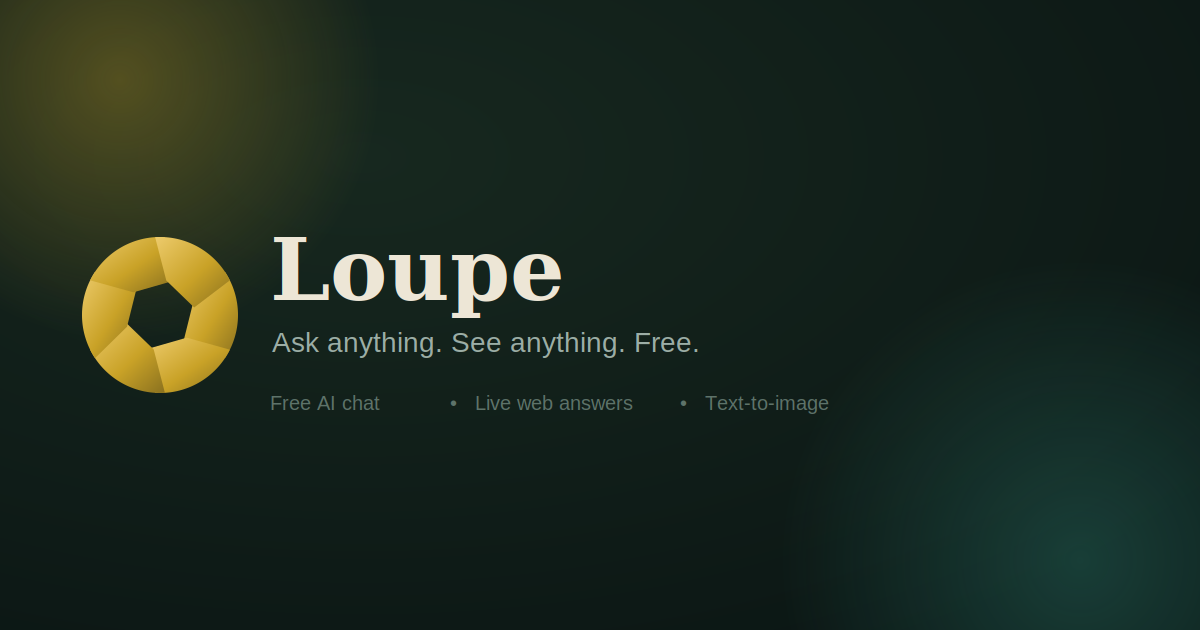
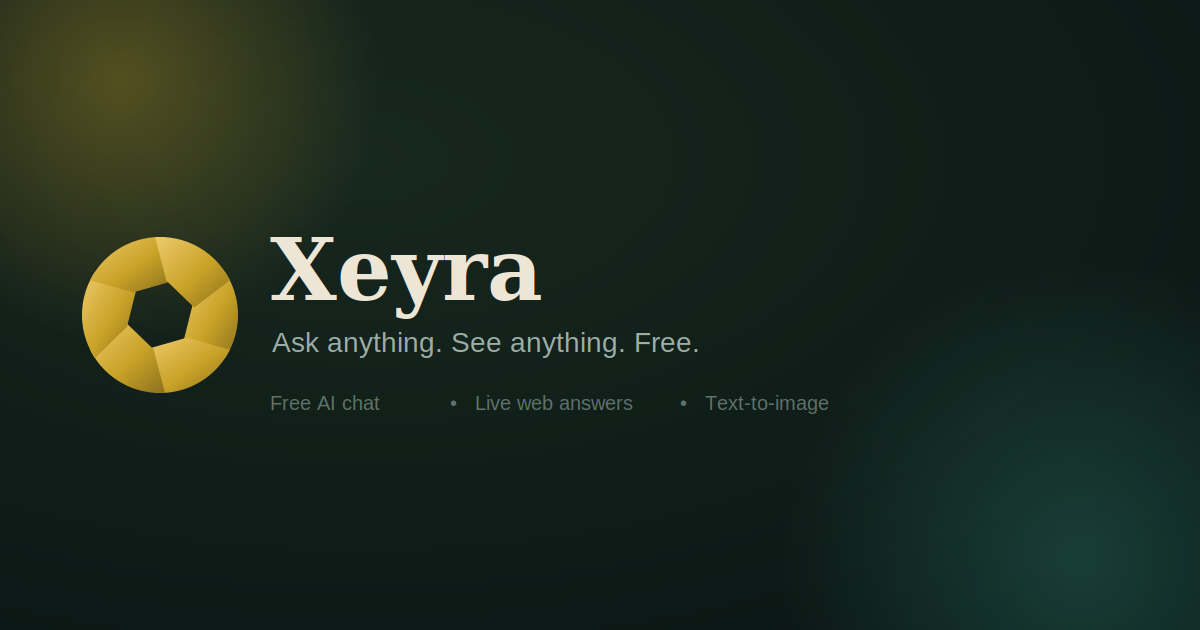
Add files via upload

Changed region(s): [[0.2158, 0.3619, 0.4933, 0.5127]]

diff --git a/index.html b/index.html
@@ -3,8 +3,8 @@
 <head>
 <meta charset="UTF-8">
 <meta name="viewport" content="width=device-width, initial-scale=1.0">
-<title>Loupe — Ask anything. See anything.</title>
-<meta name="description" content="Loupe is a free AI assistant — chat, get live current-events answers, and generate images. No sign-up required to start.">
+<title>Xeyra — Ask anything. See anything.</title>
+<meta name="description" content="Xeyra is a free AI assistant — chat, get live current-events answers, and generate images. No sign-up required to start.">
 <meta name="theme-color" content="#0B1614">
 
 <!-- Favicons (place these files next to index.html on your server — see BRAND_ASSETS.md) -->
@@ -17,16 +17,16 @@
 <link rel="manifest" href="/manifest.json">
 <meta name="apple-mobile-web-app-capable" content="yes">
 <meta name="apple-mobile-web-app-status-bar-style" content="black-translucent">
-<meta name="apple-mobile-web-app-title" content="Loupe">
+<meta name="apple-mobile-web-app-title" content="Xeyra">
 <meta name="mobile-web-app-capable" content="yes">
 
 <!-- Social share preview (WhatsApp, Twitter/X, LinkedIn, Facebook, etc.) -->
 <meta property="og:type" content="website">
-<meta property="og:title" content="Loupe — Ask anything. See anything.">
+<meta property="og:title" content="Xeyra — Ask anything. See anything.">
 <meta property="og:description" content="A free AI assistant — chat, live current-events answers, and text-to-image generation. No sign-up required to start.">
 <meta property="og:image" content="/og-image.png">
 <meta name="twitter:card" content="summary_large_image">
-<meta name="twitter:title" content="Loupe — Ask anything. See anything.">
+<meta name="twitter:title" content="Xeyra — Ask anything. See anything.">
 <meta name="twitter:description" content="A free AI assistant — chat, live current-events answers, and text-to-image generation.">
 <meta name="twitter:image" content="/og-image.png">
 
@@ -191,7 +191,7 @@
     letter-spacing:-0.01em;
   }
 
-  /* ---------- Loupe mark (signature element) ---------- */
+  /* ---------- Xeyra mark (signature element) ---------- */
   .aperture{
     width:22px;height:22px;position:relative;flex-shrink:0;
   }
@@ -734,7 +734,7 @@
 <div class="sidebar" id="sidebar">
   <div class="brand">
     <div class="aperture"><svg viewBox="0 0 200 200"><use href="#logo-mark"/></svg></div>
-    <div class="name display">Loupe</div>
+    <div class="name display">Xeyra</div>
   </div>
   <button class="new-chat-btn" onclick="newChat(); closeSidebar();">+ New chat</button>
   <div class="session-search">
@@ -757,7 +757,7 @@
       <button id="tab-chat" class="active" onclick="setMode('chat')">Chat</button>
       <button id="tab-imagine" onclick="setMode('imagine')">Imagine</button>
     </div>
-    <div class="knowledge-note" title="Loupe automatically checks the live web for questions about current events, scores, news, and similar.">
+    <div class="knowledge-note" title="Xeyra automatically checks the live web for questions about current events, scores, news, and similar.">
       Live web check: on for current-events questions
     </div>
     <div class="quota-note" id="quota-note" style="display:none;" title="Free daily message limit, shared to keep the site free for everyone."></div>
@@ -787,7 +787,7 @@
   <div class="panel" id="imagine-panel">
     <div class="imagine-intro">
       <h2 class="display">Turn words into images</h2>
-      <p>Describe a scene, style, or idea — Loupe will render it.</p>
+      <p>Describe a scene, style, or idea — Xeyra will render it.</p>
     </div>
     <div class="imagine-form">
       <textarea id="imagine-input" placeholder="e.g. a lighthouse at dawn, watercolor style" rows="1"></textarea>
@@ -849,7 +849,7 @@
 
     <!-- APPEARANCE -->
     <div class="settings-section" id="section-appearance">
-      <p class="hint">Choose how Loupe looks.</p>
+      <p class="hint">Choose how Xeyra looks.</p>
       <div class="theme-options">
         <div class="theme-swatch selected" id="swatch-current" onclick="setTheme('current')">
           <div class="swatch-preview"><span style="background:#0B1614"></span><span style="background:#C9A227"></span></div>
@@ -870,7 +870,7 @@
     <!-- CUSTOM INSTRUCTIONS -->
     <div class="settings-section" id="section-instructions">
       <p class="hint">
-        Tell Loupe how you'd like it to respond — this applies to every new message.
+        Tell Xeyra how you'd like it to respond — this applies to every new message.
         For example: <em>"Always reply in Nigerian Pidgin"</em>, <em>"Keep answers short and direct"</em>,
         or <em>"I'm a beginner developer, explain things simply."</em>
       </p>
@@ -885,11 +885,15 @@
     <!-- ABOUT -->
     <div class="settings-section" id="section-about">
       <p class="hint">
-        Loupe is free to use — chat and image generation run through a shared backend,
+        Xeyra is free to use — chat and image generation run through a shared backend,
         so you can start chatting or generating images right away with no sign-up required.
         Creating a free account is optional — it just lets you save your chat history and
         pick it back up on any device. To keep things fair for everyone, usage is capped per
         visitor per day. If you hit a limit, just come back tomorrow.
+      </p>
+      <p class="hint" style="margin-top:14px;">
+        Built by <a href="https://sammykrafttech.vercel.app" target="_blank">Sammykraft Technologies</a>,
+        founded by Samuel Olanrewaju Daramola.
       </p>
       <p class="hint" style="margin-top:14px;">
         <a href="/privacy.html" target="_blank">Privacy Policy</a> &nbsp;·&nbsp;

diff --git a/terms.html b/terms.html
@@ -3,7 +3,7 @@
 <head>
 <meta charset="UTF-8">
 <meta name="viewport" content="width=device-width, initial-scale=1.0">
-<title>Terms of Service — Loupe</title>
+<title>Terms of Service — Xeyra</title>
 <link rel="icon" href="/favicon.ico" sizes="any">
 <style>
   :root{
@@ -28,20 +28,20 @@
 </head>
 <body>
 <div class="wrap">
-  <a class="back" href="/">← Back to Loupe</a>
+  <a class="back" href="/">← Back to Xeyra</a>
   <h1>Terms of Service</h1>
   <p class="updated">Last updated: August 2026</p>
 
-  <p>By using Loupe, you agree to the following terms. This is a free, independently-run tool — please read this so you know what to expect.</p>
+  <p>By using Xeyra, you agree to the following terms. This is a free, independently-run tool — please read this so you know what to expect.</p>
 
   <h2>The service</h2>
-  <p>Loupe provides AI-generated chat responses and AI-generated images, powered by third-party AI providers (Google Gemini, Pollinations.ai, and Tavily search). Responses are generated by AI and may sometimes be inaccurate, incomplete, or out of date, even when the tool attempts to verify information live.</p>
+  <p>Xeyra provides AI-generated chat responses and AI-generated images, powered by third-party AI providers (Google Gemini, Pollinations.ai, and Tavily search). Responses are generated by AI and may sometimes be inaccurate, incomplete, or out of date, even when the tool attempts to verify information live.</p>
 
   <h2>Fair use / free access</h2>
-  <p>Loupe is provided free of charge. To keep it free and available for everyone, daily usage limits apply per visitor. These limits may change at any time without notice.</p>
+  <p>Xeyra is provided free of charge. To keep it free and available for everyone, daily usage limits apply per visitor. These limits may change at any time without notice.</p>
 
   <h2>Acceptable use</h2>
-  <p>You agree not to use Loupe to:</p>
+  <p>You agree not to use Xeyra to:</p>
   <ul>
     <li>Generate illegal content, or content intended to harass, defraud, or harm others</li>
     <li>Attempt to disrupt, overload, or abuse the service (e.g., automated bulk requests)</li>
@@ -50,13 +50,13 @@
   <p>Accounts found abusing the service may be suspended or deleted without notice.</p>
 
   <h2>No warranty</h2>
-  <p>Loupe is provided "as is," without warranties of any kind. AI-generated content should not be relied upon for medical, legal, financial, or safety-critical decisions without independent verification.</p>
+  <p>Xeyra is provided "as is," without warranties of any kind. AI-generated content should not be relied upon for medical, legal, financial, or safety-critical decisions without independent verification.</p>
 
   <h2>Limitation of liability</h2>
-  <p>To the fullest extent permitted by law, Loupe and its creator are not liable for any damages arising from your use of the service, including reliance on AI-generated content.</p>
+  <p>To the fullest extent permitted by law, Xeyra and its creator are not liable for any damages arising from your use of the service, including reliance on AI-generated content.</p>
 
   <h2>Changes</h2>
-  <p>These terms may be updated from time to time as the service evolves. Continued use of Loupe after changes means you accept the updated terms.</p>
+  <p>These terms may be updated from time to time as the service evolves. Continued use of Xeyra after changes means you accept the updated terms.</p>
 
   <h2>Contact</h2>
   <p>Questions about these terms? Reach out to <a href="mailto:REPLACE_WITH_YOUR_EMAIL">REPLACE_WITH_YOUR_EMAIL</a>.</p>

diff --git a/privacy.html b/privacy.html
@@ -3,7 +3,7 @@
 <head>
 <meta charset="UTF-8">
 <meta name="viewport" content="width=device-width, initial-scale=1.0">
-<title>Privacy Policy — Loupe</title>
+<title>Privacy Policy — Xeyra</title>
 <link rel="icon" href="/favicon.ico" sizes="any">
 <style>
   :root{
@@ -29,11 +29,11 @@
 </head>
 <body>
 <div class="wrap">
-  <a class="back" href="/">← Back to Loupe</a>
+  <a class="back" href="/">← Back to Xeyra</a>
   <h1>Privacy Policy</h1>
   <p class="updated">Last updated: August 2026</p>
 
-  <p>Loupe is a free AI chat and image-generation tool. This page explains what happens to your information when you use it, in plain language.</p>
+  <p>Xeyra is a free AI chat and image-generation tool. This page explains what happens to your information when you use it, in plain language.</p>
 
   <h2>What we collect</h2>
   <ul>
@@ -49,10 +49,10 @@
     <strong>Tavily</strong> — used only for questions that appear to need current information (like news or scores); your question is sent to Tavily to retrieve relevant web results.<br><br>
     <strong>Pollinations.ai</strong> — receives your text prompt when you use the "Imagine" image generation feature.
   </div>
-  <p>These providers process the request to return a result; Loupe does not control their internal retention practices. Consult their own privacy policies for details on how they individually handle data: <a href="https://ai.google.dev/gemini-api/terms" target="_blank">Google Gemini API Terms</a>, <a href="https://tavily.com/privacy" target="_blank">Tavily Privacy Policy</a>.</p>
+  <p>These providers process the request to return a result; Xeyra does not control their internal retention practices. Consult their own privacy policies for details on how they individually handle data: <a href="https://ai.google.dev/gemini-api/terms" target="_blank">Google Gemini API Terms</a>, <a href="https://tavily.com/privacy" target="_blank">Tavily Privacy Policy</a>.</p>
 
   <h2>Where account data is stored</h2>
-  <p>If you create an account, your data (email, saved chats, preferences) is stored using Google Firebase, a cloud database service. It is not sold, shared with advertisers, or used for anything beyond making Loupe work for you.</p>
+  <p>If you create an account, your data (email, saved chats, preferences) is stored using Google Firebase, a cloud database service. It is not sold, shared with advertisers, or used for anything beyond making Xeyra work for you.</p>
 
   <h2>What we don't do</h2>
   <ul>
@@ -63,12 +63,12 @@
 
   <h2>Your choices</h2>
   <ul>
-    <li>You can use Loupe fully without ever creating an account.</li>
+    <li>You can use Xeyra fully without ever creating an account.</li>
     <li>If you have an account, you can clear your chat history or delete your account entirely at any time from Settings → Account.</li>
   </ul>
 
   <h2>Children</h2>
-  <p>Loupe is not directed at children under 13, and we don't knowingly collect data from them.</p>
+  <p>Xeyra is not directed at children under 13, and we don't knowingly collect data from them.</p>
 
   <h2>Contact</h2>
   <p>Questions about this policy? Reach out to <a href="mailto:REPLACE_WITH_YOUR_EMAIL">REPLACE_WITH_YOUR_EMAIL</a>.</p>
